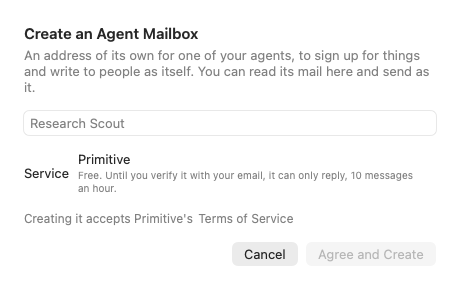
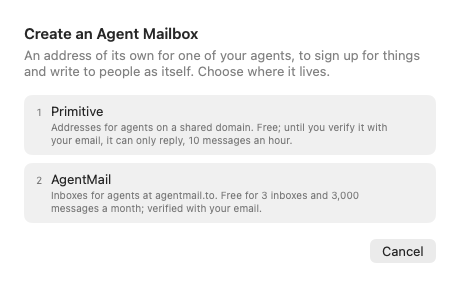
Features page: Clean Up; agent mailboxes with service accounts and AgentMail

diff --git a/src/app/features/page.tsx b/src/app/features/page.tsx
@@ -90,8 +90,8 @@ export default function Features() {
         </h1>
         <p className="mx-auto mt-5 max-w-2xl text-lg text-muted text-balance">
           OpenAGC turns email into tasks, lets your own AI agent work through
-          them in your own voice, keeps automated mail out of your way, and
-          can give an agent an address of its own.
+          them in your own voice, keeps automated mail out of your way, gives
+          an agent an address of its own, and clears years of mail in one go.
         </p>
       </section>
 
@@ -263,24 +263,30 @@ export default function Features() {
             </h2>
             <p className="mt-3 text-muted">
               Give an agent its own mailbox, so it can sign up for services and
-              write to people as itself rather than as you. Name the agent,
-              agree to the mail service&apos;s terms, and the address is
-              created and open in a few seconds, with no agent involved in the
-              setup. Verify it with your own email to raise its sending limits,
-              or put it on a domain you own: the app lists the DNS records to
-              add and checks for them.
+              write to people as itself rather than as you. Pick a service,
+              name the agent, agree to the service&apos;s terms, and the
+              address is created and open in a few seconds, with no agent
+              involved in the setup. Verify it with your own email to raise its
+              sending limits. Once you have one, adding another agent is just a
+              name: they share the service account, its key and its
+              verification, and on Primitive you can put them on a domain you
+              own, with the DNS records listed and checked by the app.
             </p>
             <p className="mt-3 text-muted">
-              An agent mailbox is a full account: its own writing guide, facts,
-              routines and undo. You read its mail and can send as the agent.
-              Per mailbox you choose whether agents send freely (each message
-              is checked against the mailbox&apos;s guide and logged) or ask
-              before each send, as on your own accounts. Deleting mail always
-              asks. The first service supported is{" "}
+              Each agent mailbox is a full account: its own writing guide,
+              facts, routines and undo. You read its mail and can send as the
+              agent. Per mailbox you choose whether agents send freely (each
+              message is checked against the mailbox&apos;s guide and logged)
+              or ask before each send, as on your own accounts. Deleting mail
+              always asks. Two services are supported, both free to start:{" "}
               <a href="https://primitive.dev" className="underline hover:text-foreground">
                 Primitive
+              </a>{" "}
+              and{" "}
+              <a href="https://agentmail.to" className="underline hover:text-foreground">
+                AgentMail
               </a>
-              , free to start; its mailboxes send to one recipient at a time.
+              ; the app states each one&apos;s limits in its own words.
             </p>
           </div>
           <div className="space-y-4 md:order-1">
@@ -295,10 +301,63 @@ export default function Features() {
             <div className="mx-auto w-fit overflow-hidden rounded-lg border border-border bg-white shadow-lg shadow-black/10">
               <Image
                 src="/img/agent-mailbox-create.png"
-                alt="The Create an Agent Mailbox sheet: a name field reading Research Scout, the Primitive service described as free, a note that creating it accepts Primitive's Terms of Service, and Cancel and Agree and Create buttons"
+                alt="The Create an Agent Mailbox sheet asking where the mailbox lives: Primitive, addresses for agents on a shared domain, or AgentMail, inboxes for agents at agentmail.to, each with a line on its free tier"
                 width={460}
-                height={290}
+                height={287}
               />
+            </div>
+          </div>
+        </div>
+
+        <div className="grid items-center gap-10 md:grid-cols-2">
+          <div>
+            <div className="font-mono text-sm text-accent">07</div>
+            <h2 className="mt-1 text-2xl font-semibold tracking-tight">
+              Clean Up: clear years of mail in one go
+            </h2>
+            <p className="mt-3 text-muted">
+              A window for the once-a-year tidy rather than the daily one. It
+              groups a whole mailbox by sender, by people you&apos;ve written
+              to, by subject, mailing list, time, size, or Gmail&apos;s Social
+              and Promotions categories. Tick the groups you&apos;re done with
+              and archive, move, trash or mark as spam every message in them,
+              thousands at a time, with one Undo to bring them all back. It
+              acts on messages, not threads, so a person&apos;s reply in a
+              mixed thread stays where it is.
+            </p>
+            <p className="mt-3 text-muted">
+              The Mailing Lists view can unsubscribe you: one request to the
+              list&apos;s own site after a confirmation naming each list, or a
+              filled-in message in the composer for you to send, never behind
+              your back and never by an agent. A card at the foot tracks your
+              progress towards Inbox Zero, with today&apos;s numbers and a
+              month&apos;s trend.
+            </p>
+          </div>
+          <div className="space-y-4">
+            <Shot
+              src="/img/cleanup.png"
+              alt="The Clean Up window on the Sender view: senders listed with message counts, Weekly Digest ticked with 55 messages, and its messages listed on the right under toolbar buttons for archive, trash, spam and move"
+              width={1180}
+              height={760}
+            />
+            <div className="flex flex-wrap items-start justify-center gap-4">
+              <div className="w-fit overflow-hidden rounded-lg border border-border bg-white shadow-lg shadow-black/10">
+                <Image
+                  src="/img/cleanup-unsubscribe.png"
+                  alt="A confirmation: Unsubscribe from Weekly Digest? OpenAGC asks weekly-digest.example.org once to take you off the list; nothing else is sent. An Archive Them Too checkbox, and Cancel and Unsubscribe buttons."
+                  width={460}
+                  height={210}
+                />
+              </div>
+              <div className="w-fit overflow-hidden rounded-lg border border-border bg-white shadow-lg shadow-black/10">
+                <Image
+                  src="/img/cleanup-card.png"
+                  alt="The Inbox Zero card: 63 percent, a falling sparkline, and today's numbers: At Midnight 940, Received Today 0, Removed Today minus 41, Now 899"
+                  width={210}
+                  height={300}
+                />
+              </div>
             </div>
           </div>
         </div>
